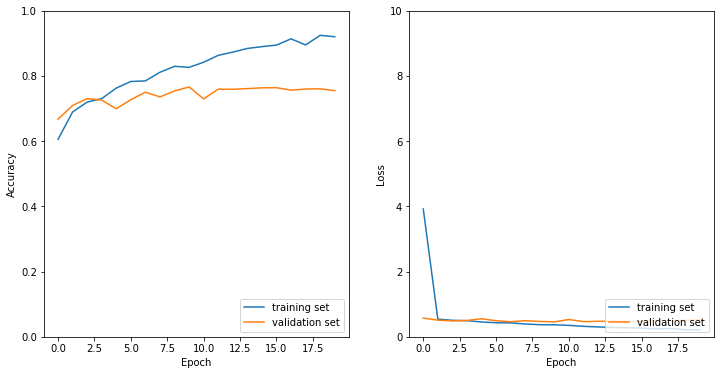
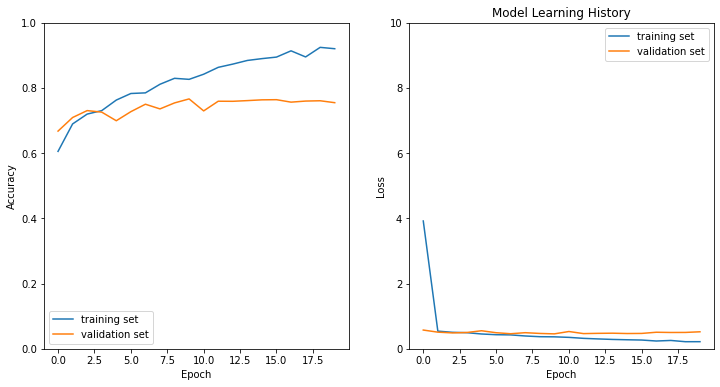
readme and plots

diff --git a/README.md b/README.md
@@ -3,6 +3,7 @@
 # Description  
 The health company **"skinCare"** wants to create a simple web page where the user could upload a picture of the mole and see the result.  
 
+<img src="visuals/skin_cover.jpg" alt="wine" width="1024"/>
 
 # Installation
 
@@ -14,15 +15,33 @@ The health company **"skinCare"** wants to create a simple web page where the us
 * pandas==1.3.3
 * Pillow==8.3.2
 * streamlit==0.88.0
-* tensorflow-cpu==2.5.0
+* tensorflow-gpu==2.5.0
+* keras
+* cv2
+* sklearn.metrics
 
 # Usage 
 | File | Description |
 |:---|:---|
-|app.py|use it for streamlit application|
-|skin_cancer_model.py|use it for streamlit backend function file|
-|models/base_model_v4.h5|save cnn model|
-|models/keras_model_skin_or_else|save model for streamlit application|
+|app.py|used for streamlit application|
+|skin_cancer_model.py|used for streamlit backend function file|
+|models/base_model_v5.h5|saved cnn model|
+|models/keras_model_skin_or_else|saved model for streamlit application|
+
+# Data Source
+Dataset: The [__HAM10000__](https://dataverse.harvard.edu/dataset.xhtml?persistentId=doi:10.7910/DVN/DBW86T)
+
+# Data Visualization
+
+<img src="visuals/lesions_plot.png" alt="wine" width="1024"/>
+
+<img src="visuals/classes_plot.png" alt="wine" width="1024"/>
+
+<img src="visuals/resampled_classes_plot.png" alt="wine" width="1024"/>
+
+<img src="visuals/history_plot.png" alt="wine" width="1024"/>
+
+<img src="visuals/matrix_model_v2_05.png" alt="wine" width="1024"/>
 
 # Website
 https://skin-cancer-application.herokuapp.com/
